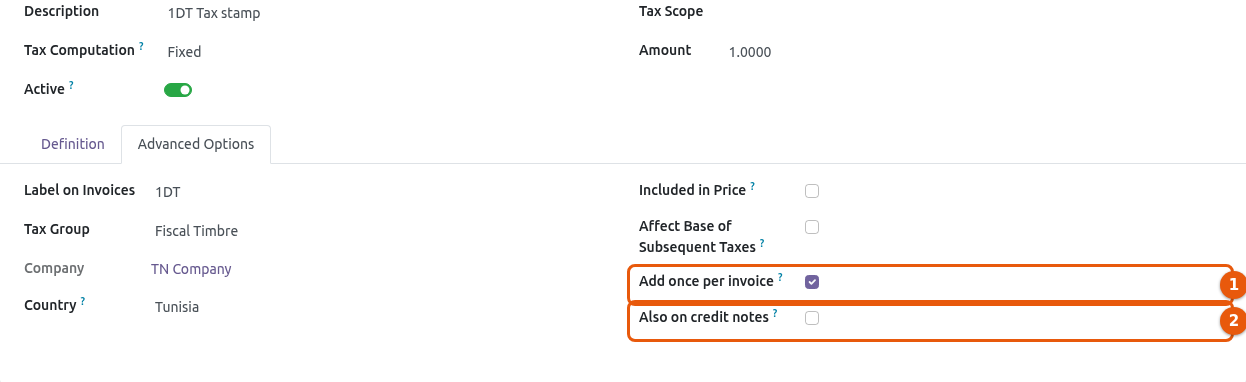
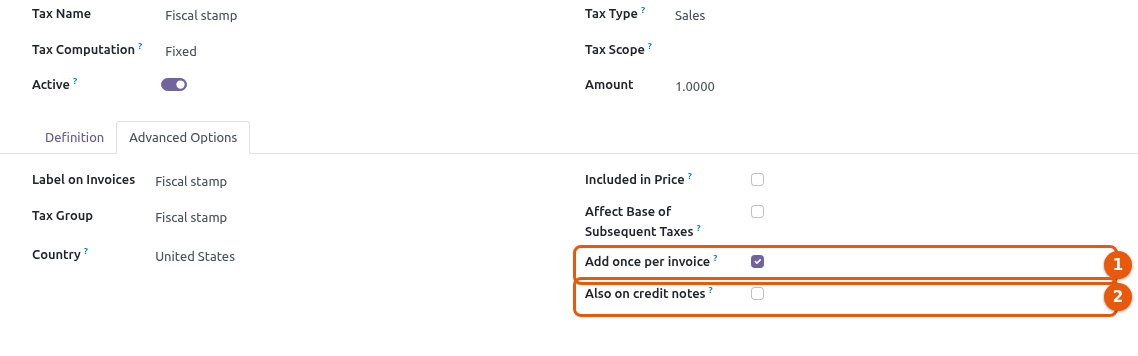
[IMP] tax_auto_on_invoice: 16.0 screenshots and store page

diff --git a/tax_auto_on_invoice/README.rst b/tax_auto_on_invoice/README.rst
@@ -23,7 +23,7 @@ Fiscal Stamp per Invoice
     :target: http://www.gnu.org/licenses/lgpl-3.0-standalone.html
     :alt: License: LGPL-3
 .. |badge3| image:: https://img.shields.io/badge/github-Odoo-Eggs%2Fodooeggs--addons-lightgray.png?logo=github
-    :target: https://github.com/Odoo-Eggs/odooeggs-addons/tree/17.0/tax_auto_on_invoice
+    :target: https://github.com/Odoo-Eggs/odooeggs-addons/tree/16.0/tax_auto_on_invoice
     :alt: Odoo-Eggs/odooeggs-addons
 
 |badge1| |badge2| |badge3| 
@@ -37,7 +37,8 @@ This module adds the tax a single time, on the whole document, and lets the
 standard Odoo tax engine do the rest: tax journal item, tax group in the totals,
 tax report, payment terms.
 
-Typical use: the Tunisian **1 DT fiscal stamp** (``l10n_tn``, tax "1DT Tax stamp").
+Typical use: a **fiscal stamp** (stamp duty), such as the Tunisian 1 DT stamp: create a
+fixed tax of 1.00 and check *Add once per invoice*.
 
 Highlights
 ==========
@@ -60,7 +61,7 @@ Screenshots
 .. figure:: images/screenshot/stamp_tax_config.png
    :alt: Tax configuration
 
-   (1) Check "Add once per invoice" on a fixed tax (here the Tunisian "1DT Tax stamp");
+   (1) Check "Add once per invoice" on a fixed tax (here a 1.00 fiscal stamp);
    (2) optionally, also on credit notes.
 
 .. figure:: images/screenshot/journal_items.png
@@ -72,7 +73,7 @@ Configuration
 =============
 
 #. Go to *Invoicing > Configuration > Taxes* and open the fixed tax to apply once
-   per invoice (e.g. "1DT Tax stamp" with the Tunisian chart of accounts).
+   per invoice (e.g. a fiscal stamp of 1.00; create it if needed).
 #. In the *Advanced Options* tab, check **Add once per invoice**.
    The option is only available for taxes computed as *Fixed*.
 #. Optionally check **Also on credit notes**.
@@ -100,11 +101,11 @@ Known issues / Roadmap
 Changelog
 =========
 
-17.0.1.0.0
+16.0.1.0.0
 ~~~~~~~~~~
 
-* First release for Odoo 17: same features as the 18.0 version, adapted to the
-  Odoo 17 tax engine.
+* First release for Odoo 16: same features as the 18.0 version, adapted to the
+  Odoo 16 tax engine.
 
 18.0.1.0.0
 ~~~~~~~~~~
@@ -129,7 +130,7 @@ Contributors
 Maintainers
 ~~~~~~~~~~~
 
-This module is part of the `Odoo-Eggs/odooeggs-addons <https://github.com/Odoo-Eggs/odooeggs-addons/tree/17.0/tax_auto_on_invoice>`_ project on GitHub.
+This module is part of the `Odoo-Eggs/odooeggs-addons <https://github.com/Odoo-Eggs/odooeggs-addons/tree/16.0/tax_auto_on_invoice>`_ project on GitHub.
 
 
 You are welcome to contribute.

diff --git a/tax_auto_on_invoice/readme/DESCRIPTION.rst b/tax_auto_on_invoice/readme/DESCRIPTION.rst
@@ -7,4 +7,5 @@ This module adds the tax a single time, on the whole document, and lets the
 standard Odoo tax engine do the rest: tax journal item, tax group in the totals,
 tax report, payment terms.
 
-Typical use: the Tunisian **1 DT fiscal stamp** (``l10n_tn``, tax "1DT Tax stamp").
+Typical use: a **fiscal stamp** (stamp duty), such as the Tunisian 1 DT stamp: create a
+fixed tax of 1.00 and check *Add once per invoice*.

diff --git a/tax_auto_on_invoice/readme/CONFIGURE.rst b/tax_auto_on_invoice/readme/CONFIGURE.rst
@@ -1,5 +1,5 @@
 #. Go to *Invoicing > Configuration > Taxes* and open the fixed tax to apply once
-   per invoice (e.g. "1DT Tax stamp" with the Tunisian chart of accounts).
+   per invoice (e.g. a fiscal stamp of 1.00; create it if needed).
 #. In the *Advanced Options* tab, check **Add once per invoice**.
    The option is only available for taxes computed as *Fixed*.
 #. Optionally check **Also on credit notes**.

diff --git a/tax_auto_on_invoice/readme/SCREENSHOTS.rst b/tax_auto_on_invoice/readme/SCREENSHOTS.rst
@@ -6,7 +6,7 @@
 .. figure:: images/screenshot/stamp_tax_config.png
    :alt: Tax configuration
 
-   (1) Check "Add once per invoice" on a fixed tax (here the Tunisian "1DT Tax stamp");
+   (1) Check "Add once per invoice" on a fixed tax (here a 1.00 fiscal stamp);
    (2) optionally, also on credit notes.
 
 .. figure:: images/screenshot/journal_items.png

diff --git a/tax_auto_on_invoice/readme/HISTORY.rst b/tax_auto_on_invoice/readme/HISTORY.rst
@@ -1,8 +1,8 @@
-17.0.1.0.0
+16.0.1.0.0
 ~~~~~~~~~~
 
-* First release for Odoo 17: same features as the 18.0 version, adapted to the
-  Odoo 17 tax engine.
+* First release for Odoo 16: same features as the 18.0 version, adapted to the
+  Odoo 16 tax engine.
 
 18.0.1.0.0
 ~~~~~~~~~~
